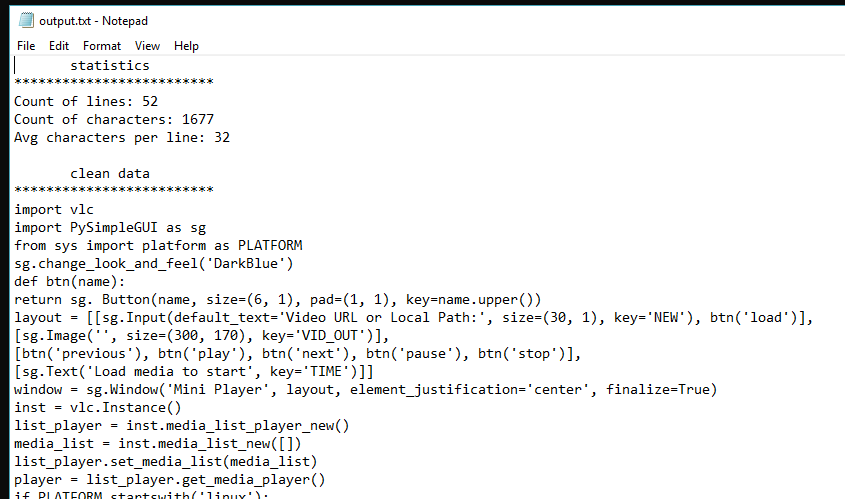
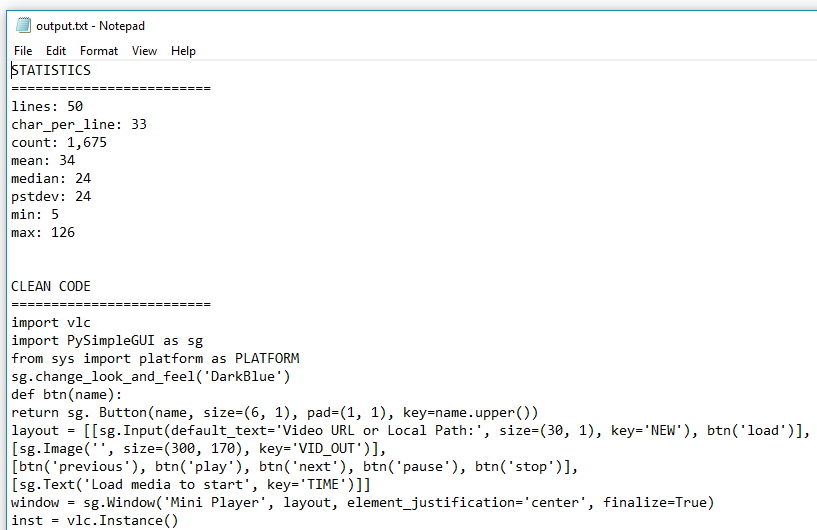
compress code, add stats, bug fix

Changed region(s): [[0.0, 0.0, 1.0, 1.0]]

diff --git a/code_counter.py b/code_counter.py
@@ -2,11 +2,12 @@
     Count Counter
     A program that counts the lines of code and code characters in a code-base
     Author      :   Israel Dryer
-    Modified    :   2019-10-30
+    Modified    :   2019-10-31
 
 """
 import PySimpleGUI as sg
 from os import system
+import statistics as stats
 
 
 def read_file(filename):
@@ -17,61 +18,56 @@ def read_file(filename):
     # clean and parse initial raw data
     data = [row.strip() for row in raw if row.strip()]
 
-    # identify and strip hash comments
+    # remove hash comments
     stage1 = []
     for row in data:
-        ix = row.find('#')
-        if ix == -1:
+        if row.find('#') != -1:
+            stage1.append(row[:row.find('#')])
+        else:
             stage1.append(row)
-        else:
-            if row[:ix]:
-                stage1.append(row[:ix])
 
-    # identify and strip 3x" multi-line comments
+    # remove " multiline comments
     stage2 = []
-    ml_flag = False
+    ml_flag = False # multiline comment flag
     for row in stage1:
-        ml_count = row.count(r'"""')
-        if ml_count == 0 and not ml_flag:
+        if row.count(r'"""') == 0 and not ml_flag: # not a comment line
             stage2.append(row)
-        elif ml_count == 1 and ml_flag:
-            ml_flag = False
-            ix = row.find(r'"""')
-            stage2.append(row[ix+1:])
-        elif ml_count == 1 and not ml_flag:
+        elif row.count(r'"""') == 1 and not ml_flag: # starting comment line
             ml_flag = True
-            ix = row.find(r'"""')
-            stage2.append(row[:ix])
+            stage2.append(row[:row.find('"""')])
+        elif row.count(r'"""') == 1 and ml_flag: # ending comment line
+            ml_flag = False
+            stage2.append(row[row.find('"""')+1:])
         else:
             continue
 
-    # identify and strip 3x' multi-line comments
+    # remove ' multiline comments
     stage3 = []
-    ml_flag = False
+    ml_flag = False # multiline comment flag
     for row in stage2:
-        ml_count = row.count(r"'''")
-        if ml_count == 0 and not ml_flag:
+        if row.count(r"'''") == 0 and not ml_flag: # not a comment line
             stage3.append(row)
-        elif ml_count == 1 and ml_flag:
-            ml_flag = False
-            ix = row.find(r"'''")
-            stage3.append(row[ix+1:])
-        elif ml_count == 1 and not ml_flag:
+        elif row.count(r"'''") == 1 and not ml_flag: # starting comment line
             ml_flag = True
-            ix = row.find(r"'''")
-            stage3.append(row[:ix])
+            stage3.append(row[:row.find("'''")])
+        elif row.count(r"'''") == 1 and ml_flag: # ending comment line
+            ml_flag = False
+            stage3.append(row[row.find("'''")+1:])
         else:
             continue
 
-    final = [row for row in stage3 if row not in ('', "''", '""')]
+    clean_code = [row for row in stage3 if row not in ('', "''", '""')]
 
-    # row and character rounds
-    char_count = []
-    for row in stage3:
-        char_count.append(len(row))
-    line_count = len(stage3)
+    # row and character rounds / for calc stats, histogram, charts
+    char_cnt = [len(row) for row in clean_code] 
 
-    return final, char_count, line_count
+    # statistics
+    code_stats = {
+        'lines': len(clean_code), 'char_per_line': sum(char_cnt)//len(clean_code), 
+        'count': sum(char_cnt), 'mean': stats.mean(char_cnt), 'median': stats.median(char_cnt), 
+        'pstdev': stats.pstdev(char_cnt), 'min': min(char_cnt), 'max': max(char_cnt)}
+
+    return clean_code, char_cnt, code_stats
 
 
 def main():
@@ -81,29 +77,23 @@ def main():
         sg.popup_error('No file selected', title='ERROR!')
         return
     else:
-        clean_data, char_count, line_count = read_file(filename)
+        clean_code, char_cnt, code_stats = read_file(filename)
 
         with open('output.txt', 'w') as f:
             # write statistics to file
-            f.write('{}statistics'.format(' '*7))
-            f.write('\n{}\n'.format('*'*25))
-            f.write('Count of lines: {}\n'.format(line_count))
-            f.write('Count of characters: {}\n'.format(sum(char_count)))
-            f.write('Avg characters per line: {}\n\n'.format(sum(char_count)//line_count))
-            f.write('{}clean data'.format(' '*7))
-            f.write('\n{}\n'.format('*'*25))
-
+            f.write('STATISTICS\n' + '='*25 + '\n')
+            for key, value in code_stats.items():
+                f.write('{}: {:,.0f}\n'.format(key, value))
+            
             # write clean data to file
-            for row in clean_data:
+            f.write('\n\nCLEAN CODE\n' + '='*25 + '\n')
+            for row in clean_code:
                 f.write(row + '\n')
 
-        sg.popup_quick_message('hello')
-        print('\n\nCount of lines:', line_count)
-        print('Count of characters:', sum(char_count))
-        print('Avg characters per line:', sum(char_count)//line_count)
-
+        
         # open file with default text editor
         system('output.txt')
+
 
 if __name__ == '__main__':
     main()
